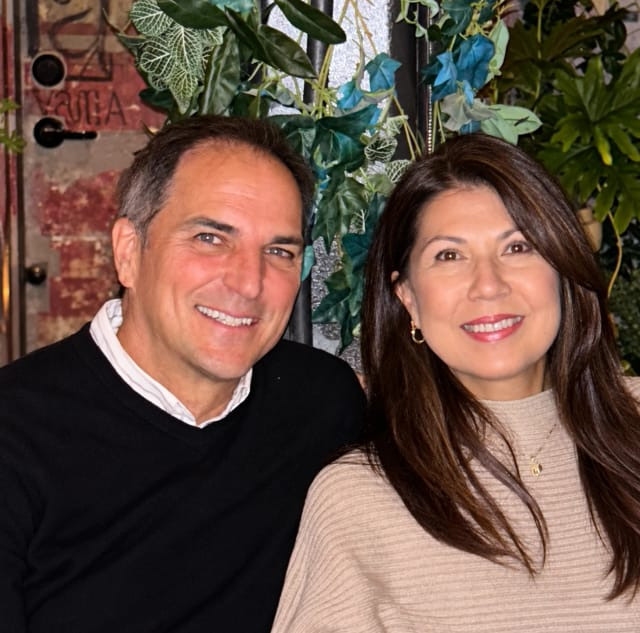
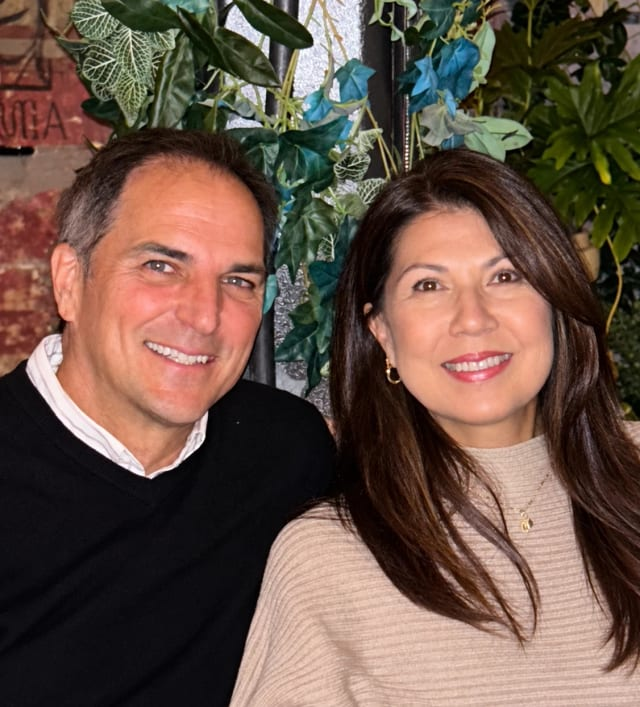
Replace home hero photo with owner's tighter crop
New 640px and 1126px JPEGs from the supplied crop. The hero frame now
follows the photo's own shape instead of forcing a square, so the
owner's crop is shown as-is. Link-preview image updated to match.

Claude-Session: https://claude.ai/code/session_01EnSpXim8FEtNKBLxjXf1AY

diff --git a/src/styles.css b/src/styles.css
@@ -177,7 +177,7 @@ main > .page-hero:first-child { padding-top: 2rem; }
 
 .hero { background: linear-gradient(180deg, var(--sand) 0%, var(--paper) 100%); padding: clamp(1.5rem, 4vw, 3.5rem) 0; }
 .hero-grid { display: grid; grid-template-columns: 1.1fr 0.9fr; gap: clamp(1.5rem, 4vw, 3.5rem); align-items: center; }
-.hero-photo img { border-radius: 24px; box-shadow: var(--shadow); aspect-ratio: 1 / 1; object-fit: cover; object-position: center 35%; }
+.hero-photo img { border-radius: 24px; box-shadow: var(--shadow); }
 @media (max-width: 860px) {
   .hero-grid { grid-template-columns: 1fr; }
   .hero-photo { max-width: 360px; }

diff --git a/src/routes/Home.jsx b/src/routes/Home.jsx
@@ -65,10 +65,10 @@ export default function Home() {
           <div className="hero-photo">
             <img
               src="/images/CandH-640.jpg"
-              srcSet="/images/CandH-640.jpg 640w, /images/CandH-1200.jpg 1200w"
+              srcSet="/images/CandH-640.jpg 640w, /images/CandH-1126.jpg 1126w"
               sizes="(min-width: 900px) 40vw, 100vw"
               width="640"
-              height="633"
+              height="707"
               alt="Chris Archibald and Helga Saito-Archibald smiling together in front of green leafy plants."
               fetchPriority="high"
             />

diff --git a/src/components/Seo.jsx b/src/components/Seo.jsx
@@ -29,7 +29,7 @@ export default function Seo({ path, title, description, noindex, breadcrumbs, js
       <meta property="og:title" content={fullTitle} />
       <meta property="og:description" content={description} />
       <meta property="og:url" content={url} />
-      <meta property="og:image" content={`${site.url}/images/CandH-1200.jpg`} />
+      <meta property="og:image" content={`${site.url}/images/CandH-1126.jpg`} />
       {structured.map((data, i) => (
         <script key={i} type="application/ld+json">{JSON.stringify(data)}</script>
       ))}
